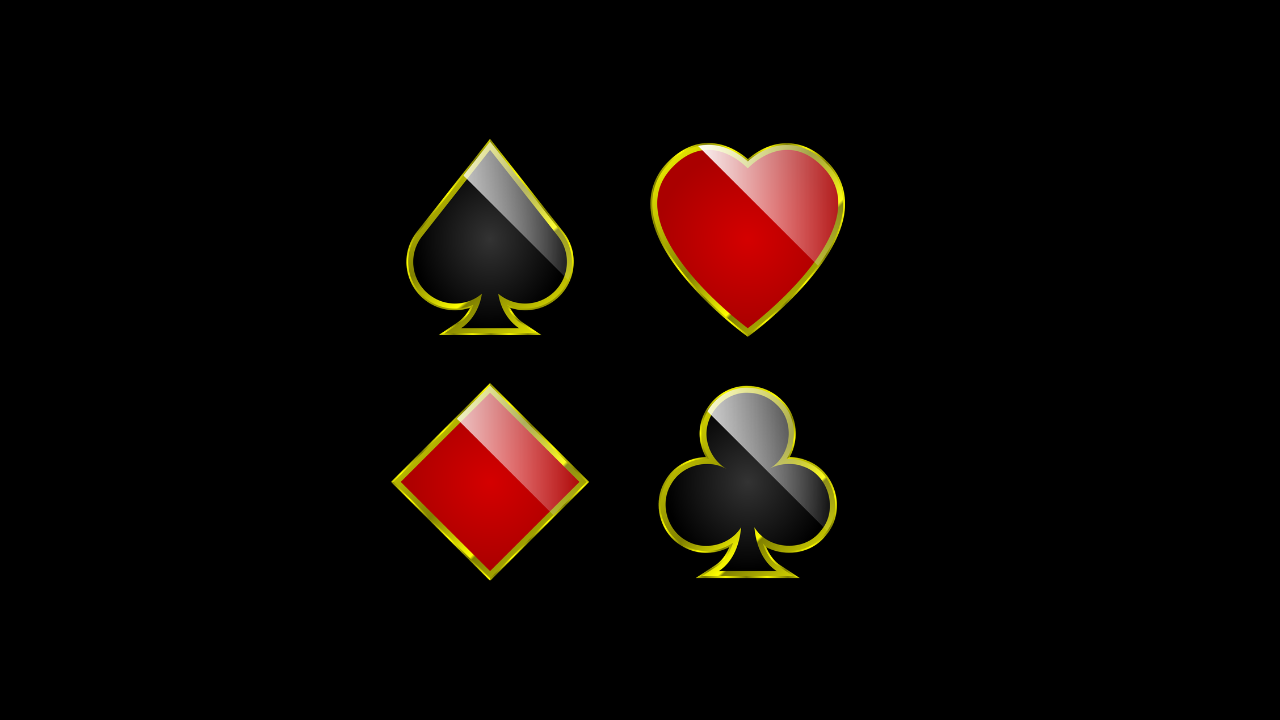
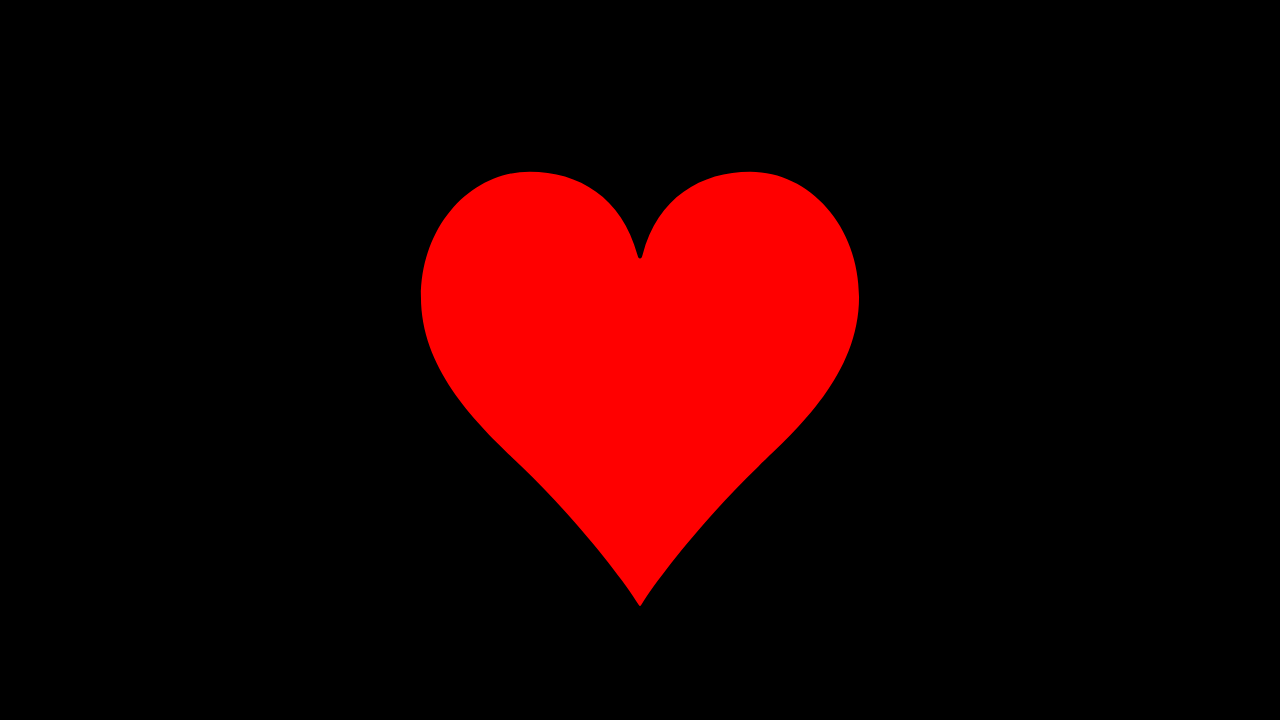
Add files via upload

Changed region(s): [[0.3125, 0.1833, 0.6875, 0.825]]

diff --git a/straight-draw.html b/straight-draw.html
@@ -792,7 +792,7 @@ A double belly buster straight draw also has 8 outs, but it is harder to recogni
 <p>
 <strong>A Jack or a 7 will complete one of the following straights:</strong><br>
 <br>
-<span class="card red">Q♥</span> <span class="card red">J♦</span> <span class="card black">10♣</span> <span class="card red">8♦</span> <span class="card red">9♥</span> &nbsp;&nbsp;  <strong>or</strong> &nbsp; &nbsp; <span class="card black">10♣</span> <span class="card red">8♦</span> <span class="card red">9♥</span> <span class="card red">7♦</span> <span class="card red">6♦</span>
+<span class="card red">Q♥</span> <span class="card red">J♦</span> <span class="card black">10♣</span> <span class="card red">9♥</span> <span class="card red">8♦</span> &nbsp;&nbsp;  <strong>or</strong> &nbsp; &nbsp; <span class="card black">10♣</span> <span class="card red">9♥</span> <span class="card red">8♦</span> <span class="card red">7♦</span> <span class="card red">6♦</span>
 </p>
 <br>
 <h3>The 10 Unique Ranked Straights in Texas Hold'em Poker</h3>